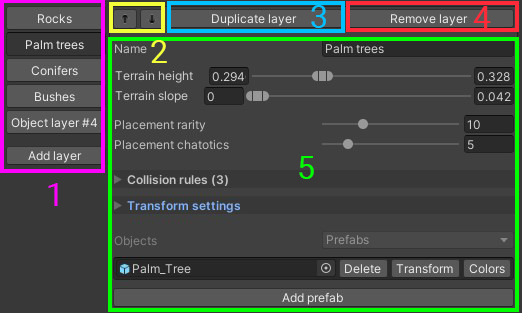
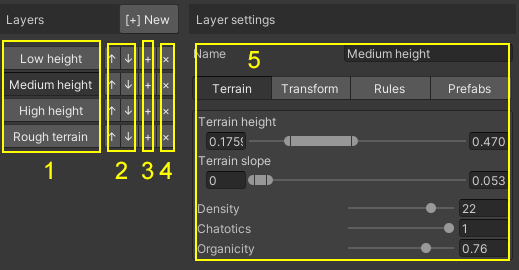
v1.3.0 performance and UX update

diff --git a/Documentation/Pages/Layers.html b/Documentation/Pages/Layers.html
@@ -16,6 +16,7 @@
                 <a href="Heightmap.html">Heightmap generation</a>
                 <a href="Layers.html" class="current">Spawn layers</a>
                 <a href="ColorGroups.html">Color groups</a>
+                <a href="https://lxkvcs.hu" target="_blank">@Website</a>
                 <a href="mailto:kovacsalex95@gmail.com" target="_blank">@Support</a>
             </div>
             <div class="page">
@@ -40,7 +41,7 @@
                     <img src="../Images/11_layers_overview.png" alt="layers overview"/>
                     <ul>
                         <li>
-                            <strong>#1</strong>: Here you can add new layers, and select your created ones.</br>The <strong>selected</strong> layer's preview can be seen on the top of the window, and its settings in the right side (<strong>#5</strong>)</br>The <strong>selected</strong> layer's position preview only showen <strong>if the <i>Object Preview</i> button is pressed</strong>
+                            <strong>#1</strong>: Here you select your created ones.</br>The <strong>selected</strong> layer's preview can be seen on the top of the window, and its settings in the right side (<strong>#5</strong>)</br>The <strong>selected</strong> layer's position preview only showen <strong>if the <i>Object Preview</i> button is pressed</strong>
                             <img src="../Images/6_layer_preview.png" alt="scene view preview" />
                         </li>
                         <li><strong>#2</strong>: You can reorder your layers with this arrow buttons</li>
@@ -58,8 +59,9 @@
                         <li><strong>Name</strong>: The name of the prefab layer. This can be anything.</li>
                         <li><strong>Terrain height</strong>: In wich height range we want to spawn objects</li>
                         <li><strong>Terrain slope</strong>: In wich steepness range we want to spawn objects</li>
-                        <li><strong>Placement density</strong>: This number represents how many objects we want to instantiate.</br>The formula is <i>30-DENSITY = N</i>, where <i>N</i> is the steps between the heightmap's pixels. Every <i>N</i> pixel is a spawn place.</li>
-                        <li><strong>Placement chaotics</strong>: This number represents the chaos level between points. The bigger the value, the more chaotic the results.</li>
+                        <li><strong>Density</strong>: This number represents how many objects we want to instantiate.</li>
+                        <li><strong>Chaotics</strong>: This number represents the chaos level between points. The bigger the value, the more chaotic the results.</li>
+                        <li><strong>Organicity</strong>: This number represents how organic your placement going to be.</li>
                     </ul>
                 </div>
             </div>
@@ -68,11 +70,16 @@
                 <div>
                     <img src="../Images/8_layer_objects.png" alt="object options"/>
                     <ul>
+                        <li><strong>Placement method</strong>: Here you can select from two modes:</li>
+                        <ul class="sub">
+                            <li><strong>Instantiate</strong>: This is the old one, when the objects is just instantiated without prefab connection. <strong>(recommended)</strong></li>
+                            <li><strong>Prefab</strong>: This is the new one, when the objects created with prefab connection.<strong>(colorization options is disabled)</strong></li>
+                        </ul>
+                        <li><strong>#5</strong>: Here you can add more prefabs to the selected layer</li>
                         <li><strong>#1</strong>: Here you can select a <i>Prefab GameObject</i> what you want to assign to this layer</li>
                         <li><strong>#2</strong>: Here you can delete this object from the current layer</li>
                         <li><strong>#3</strong>: With the per-object transform you can manipulate the prefab's offset, rotation, and scale</br>regardless of the main layer <a href="#transform">transform settings</a></li>
                         <li id="colorgroups"><strong>#4</strong>: Here you can select a <i>Material</i> that gonna be colored with the selected color group if its can be found in your prefab, and the color parameter of the material's <i>Shader</i> given correctly. You can add multiple <i>Material</i> to the selected object with independent color groups if you want to.</li>
-                        <li><strong>#5</strong>: Here you can add more prefabs to the selected layer</li>
                     </ul>
                 </div>
             </div>
@@ -108,5 +115,6 @@
                 </div>
             </div>
         </div>
+        <label class="credits">MassSpawner | Created by <a href="https://lxkvcs.hu">Alex Kovács</a></label>
     </body>
 </html>

diff --git a/Documentation/Documentation.html b/Documentation/Documentation.html
@@ -16,6 +16,7 @@
                 <a href="Pages/Heightmap.html">Heightmap generation</a>
                 <a href="Pages/Layers.html">Spawn layers</a>
                 <a href="Pages/ColorGroups.html">Color groups</a>
+                <a href="https://lxkvcs.hu" target="_blank">@Website</a>
                 <a href="mailto:kovacsalex95@gmail.com" target="_blank">@Support</a>
             </div>
             <div class="message">Thank you for purchasing this product. We hope it will live up to its promise.</div>
@@ -68,12 +69,8 @@
                                 <li style="margin-top: 20px;"><strong>#2</strong>: Here you can select a configuration page (<strong>#3</strong>):</li>
                                 <ul>
                                     <li>
-                                        <strong>World</strong>: Here you can define your world's boundary.
-                                        </br><img src="Images/3_1_world.png" alt="world" />
-                                    </li>
-                                    <li>
-                                        <strong>Heightmap</strong>: Here you can define from wich layers you want to sample the height data, and wich layer you want to ignore. You can change the heightmap resolution as well. <a href="Pages/Heightmap.html">More information</a>
-                                        </br><img src="Images/3_2_heightmap.png" alt="heightmap" />
+                                        <strong>World & Heightmap</strong>: Here you can define your world's boundary, and from wich layers you want to sample the height data, and wich layer you want to ignore. You can change the heightmap resolution as well. <a href="Pages/Heightmap.html">More information</a>
+                                        </br><img src="Images/3_1_world.png" alt="world & heightmap" />
                                     </li>
                                     <li>
                                         <strong>Layers</strong>: Here you can define the layers and their rules. This defines wich prefab gonna be spawned, where, and how. <a href="Pages/Layers.html">More information</a>
@@ -90,6 +87,6 @@
                 </div>
             </div>
         </div>
-        <label class="credits">MassSpawner | Created by <a href="mailto:kovacsalex95@gmail.com">Alex Kovács</a></label>
+        <label class="credits">MassSpawner | Created by <a href="https://lxkvcs.hu">Alex Kovács</a></label>
     </body>
 </html>

diff --git a/Documentation/Pages/Heightmap.html b/Documentation/Pages/Heightmap.html
@@ -16,6 +16,7 @@
                 <a href="Heightmap.html" class="current">Heightmap generation</a>
                 <a href="Layers.html">Spawn layers</a>
                 <a href="ColorGroups.html">Color groups</a>
+                <a href="https://lxkvcs.hu" target="_blank">@Website</a>
                 <a href="mailto:kovacsalex95@gmail.com" target="_blank">@Support</a>
             </div>
             <div class="page">
@@ -33,7 +34,7 @@
             <div class="page">
                 <h2>Parameters</h2>
                 <div>
-                    <img src="../Images/3_2_heightmap.png" alt="heightmap" />
+                    <img src="../Images/3_1_world.png" alt="heightmap" />
                     <ul>
                         <li><strong>Resolution</strong>: The sampling resolution of the textures. This also influences the raycast count, so big numbers can cause performance issues.</li>
                         <li><strong>Terrain layers</strong>: Wich layers we want to <strong>include</strong> in our heightmap.</li>
@@ -41,12 +42,7 @@
                     </ul>
                 </div>
             </div>
-            <div class="page">
-                <h2>Auto mode</h2>
-                <div>
-                    If we enable <i>Auto mode</i>, the system will be automatically regenerating the heightmaps if any world or heightmap parameter changes.
-                </div>
-            </div>
         </div>
+        <label class="credits">MassSpawner | Created by <a href="https://lxkvcs.hu">Alex Kovács</a></label>
     </body>
 </html>

diff --git a/Documentation/Pages/ColorGroups.html b/Documentation/Pages/ColorGroups.html
@@ -16,6 +16,7 @@
                 <a href="Heightmap.html">Heightmap generation</a>
                 <a href="Layers.html">Spawn layers</a>
                 <a href="ColorGroups.html" class="current">Color groups</a>
+                <a href="https://lxkvcs.hu" target="_blank">@Website</a>
                 <a href="mailto:kovacsalex95@gmail.com" target="_blank">@Support</a>
             </div>
             <div class="page">
@@ -51,5 +52,6 @@
                 </div>
             </div>
         </div>
+        <label class="credits">MassSpawner | Created by <a href="https://lxkvcs.hu">Alex Kovács</a></label>
     </body>
-</html>    
+</html>

diff --git a/Documentation/Assets/docs_style.css b/Documentation/Assets/docs_style.css
@@ -79,6 +79,9 @@ h2 {
 ul {
     padding-left: 20px;
     line-height: 1.1em;
+}
+
+ul:not(.sub) {
     margin-top: 10px;
 }
 

diff --git a/Scripts/Editor/MassSpawnerEditorWindow.cs b/Scripts/Editor/MassSpawnerEditorWindow.cs
@@ -551,7 +551,7 @@ namespace lxkvcs
             float angleOffset = spawner.objectLayers[spawner.selectedObjectLayerIndex].angleOffset;
             float organicity = spawner.objectLayers[spawner.selectedObjectLayerIndex].organicity;
             spawner.objectLayers[spawner.selectedObjectLayerIndex].everyN = 30 - EditorGUILayout.IntSlider("Density", 30 - spawner.objectLayers[spawner.selectedObjectLayerIndex].everyN, 0, 27);
-            spawner.objectLayers[spawner.selectedObjectLayerIndex].angleOffset = EditorGUILayout.Slider("Chatotics", spawner.objectLayers[spawner.selectedObjectLayerIndex].angleOffset, 0, 1);
+            spawner.objectLayers[spawner.selectedObjectLayerIndex].angleOffset = EditorGUILayout.Slider("Chaotics", spawner.objectLayers[spawner.selectedObjectLayerIndex].angleOffset, 0, 1);
             spawner.objectLayers[spawner.selectedObjectLayerIndex].organicity = EditorGUILayout.Slider("Organicity", spawner.objectLayers[spawner.selectedObjectLayerIndex].organicity, 0, 1);
 
             if (everyN != spawner.objectLayers[spawner.selectedObjectLayerIndex].everyN ||
